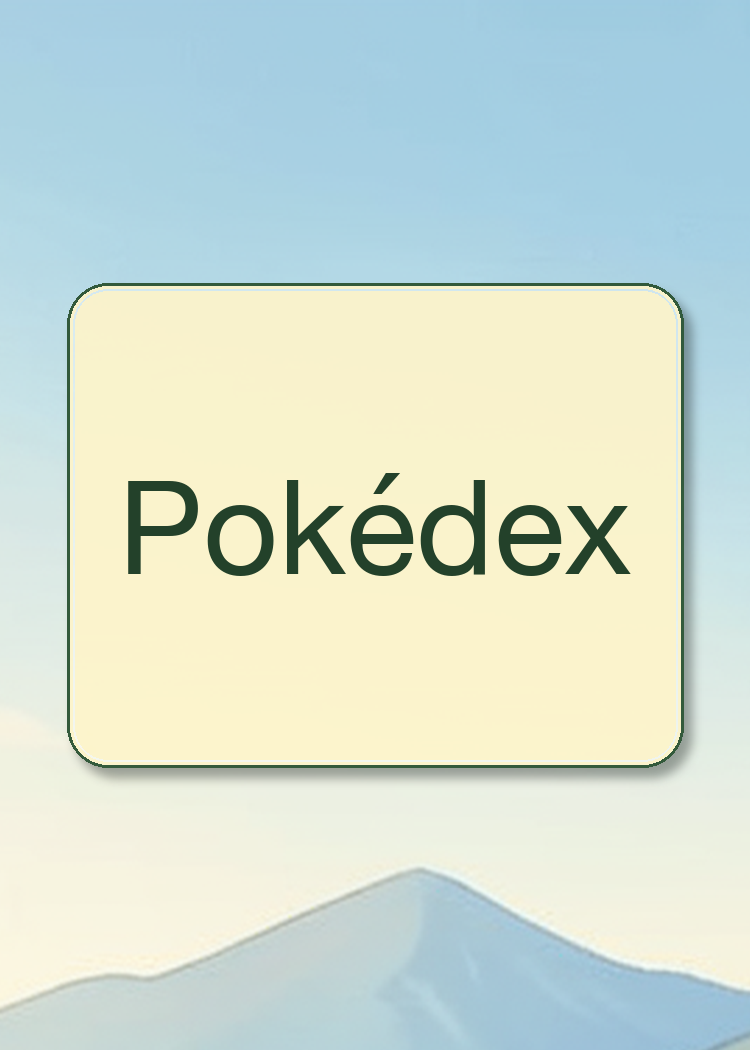
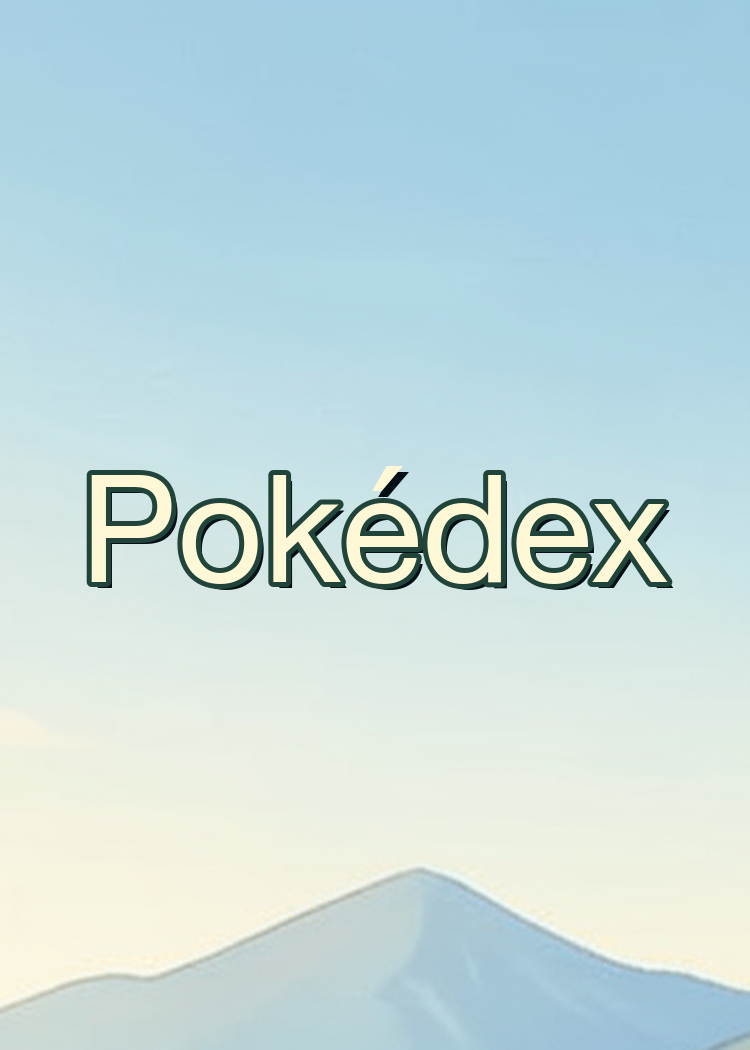
fix(poster): remove plain title panels

diff --git a/scripts/poster_assets/finalize_comfyui_poster.py b/scripts/poster_assets/finalize_comfyui_poster.py
@@ -400,48 +400,35 @@ def draw_project_signature(canvas: Image.Image) -> None:
     draw.text((x, y), text, font=font, fill=(246, 239, 207, 215))
 
 
-def draw_title_text_panel(
+def draw_title_text(
     canvas: Image.Image,
     title_cell,
     title: str,
     language: str,
 ) -> tuple[int, int, int, int]:
-    """Draw a localized title fully inside its deterministic panel."""
-    panel_box = title_cell.inset(0.09, 0.27)
-    composite_panel(
-        canvas,
-        panel_box,
-        fill=(253, 244, 202, 238),
-        outline=(44, 84, 52, 245),
-        radius=max(8, round(24 * canvas.width / 1400)),
-    )
-    width = panel_box[2] - panel_box[0]
-    height = panel_box[3] - panel_box[1]
-    pad_x = max(4, round(width * 0.05))
-    pad_y = max(4, round(height * 0.10))
-    text_box = (
-        panel_box[0] + pad_x,
-        panel_box[1] + pad_y,
-        panel_box[2] - pad_x,
-        panel_box[3] - pad_y,
-    )
+    """Draw a localized, outlined title directly on the artwork."""
+    text_box = title_cell.inset(0.05, 0.31)
     font = fitted_font(
         title,
         text_box,
-        preferred_size=max(14, title_cell.height // 8),
-        minimum_size=max(10, title_cell.height // 22),
+        preferred_size=max(14, title_cell.height // 7),
+        minimum_size=max(10, title_cell.height // 24),
         bold=True,
         language=language,
     )
+    stroke_width = max(1, round(font.size / 28))
     draw_text_centered(
         ImageDraw.Draw(canvas, "RGBA"),
         title,
         text_box,
         font,
-        (35, 65, 42, 255),
-        shadow_fill=None,
+        (255, 248, 215, 255),
+        shadow_fill=(5, 16, 22, 145),
+        stroke_width=stroke_width,
+        stroke_fill=(32, 68, 57, 245),
+        shadow_offset=max(2, round(canvas.width / 390)),
     )
-    return panel_box
+    return text_box
 
 
 def draw_inline_logo_title(
@@ -583,7 +570,7 @@ def draw_final_text_cells(canvas, layout, manifest, scope_data, scope_dir: Path,
                 language,
             )
         else:
-            draw_title_text_panel(
+            draw_title_text(
                 canvas,
                 title_cell,
                 readable_overlay_text(header_text),

diff --git a/scripts/tests/test_poster_assets.py b/scripts/tests/test_poster_assets.py
@@ -27,7 +27,7 @@ from scripts.poster_assets.create_comfyui_upscale_workflow import (
 )
 from scripts.poster_assets.finalize_comfyui_poster import (
     draw_inline_logo_title,
-    draw_title_text_panel,
+    draw_title_text,
     finalize,
     fitted_font,
     info_panel_box,
@@ -1360,14 +1360,14 @@ def test_info_panel_shrinks_long_set_names_to_their_row():
     assert total_height <= box[3] - box[1]
 
 
-def test_long_localized_title_stays_inside_its_panel():
-    canvas = Image.new("RGBA", (848, 1168), (0, 0, 0, 0))
+def test_long_localized_title_stays_inside_its_cell_without_panel():
+    canvas = Image.new("RGBA", (848, 1168), (74, 151, 211, 255))
     title_cell = build_page_layout(
         "standard_3x3",
         width_px=canvas.width,
     ).cell(1, 2)
 
-    panel_box = draw_title_text_panel(
+    text_box = draw_title_text(
         canvas,
         title_cell,
         "Mega Pokémon ex",
@@ -1379,14 +1379,18 @@ def test_long_localized_title_stays_inside_its_panel():
         (x, y)
         for y in range(canvas.height)
         for x in range(canvas.width)
-        if pixels[x, y][:3] == (35, 65, 42)
+        if pixels[x, y][:3] == (255, 248, 215)
         and pixels[x, y][3] == 255
     ]
     assert text_points
-    assert min(x for x, _y in text_points) >= panel_box[0]
-    assert max(x for x, _y in text_points) < panel_box[2]
-    assert min(y for _x, y in text_points) >= panel_box[1]
-    assert max(y for _x, y in text_points) < panel_box[3]
+    assert min(x for x, _y in text_points) >= text_box[0]
+    assert max(x for x, _y in text_points) < text_box[2]
+    assert min(y for _x, y in text_points) >= text_box[1]
+    assert max(y for _x, y in text_points) < text_box[3]
+    assert all(
+        pixel[:3] != (253, 244, 202)
+        for pixel in canvas.get_flattened_data()
+    )
 
 
 @pytest.mark.parametrize(

diff --git a/scripts/poster_assets/typography.py b/scripts/poster_assets/typography.py
@@ -135,6 +135,10 @@ def draw_text_centered(
     font: ImageFont.ImageFont,
     fill: tuple[int, int, int, int],
     shadow_fill: tuple[int, int, int, int] | None = (0, 0, 0, 150),
+    *,
+    stroke_width: int = 0,
+    stroke_fill: tuple[int, int, int, int] | None = None,
+    shadow_offset: int = 2,
 ) -> None:
     left, top, right, bottom = box
     lines = wrap_text(text, font, max_width=right - left)
@@ -154,12 +158,19 @@ def draw_text_centered(
         draw_y = y - bounds[1]
         if shadow_fill:
             draw.text(
-                (x + 2, draw_y + 2),
+                (x + shadow_offset, draw_y + shadow_offset),
                 line,
                 font=font,
                 fill=shadow_fill,
             )
-        draw.text((x, draw_y), line, font=font, fill=fill)
+        draw.text(
+            (x, draw_y),
+            line,
+            font=font,
+            fill=fill,
+            stroke_width=stroke_width,
+            stroke_fill=stroke_fill,
+        )
         y += line_height + round(font.size * 0.28)
 
 

diff --git a/scripts/poster_assets/provenance.py b/scripts/poster_assets/provenance.py
@@ -1232,6 +1232,7 @@ def build_overlay_fingerprint(
             else:
                 title = {
                     "kind": "text",
+                    "renderer": "direct_outlined_v1",
                     "value": readable_overlay_text(header_text),
                 }
         language_components[language] = {

diff --git a/docs/POSTER_ARTWORK_CONCEPT.md b/docs/POSTER_ARTWORK_CONCEPT.md
@@ -163,8 +163,8 @@ resolves localized set name, card count, release label/date, and project mark;
 `section_summary` resolves localized section title, subtitle or region,
 Pokémon count, description/range, and project mark. The finalizer chooses the top
 renderer from the resolved value: a complete set logo wins, one supported
-trailing logo token becomes an inline logo group, and everything else uses the
-text panel. If that textual top value equals the first information row after
+trailing logo token becomes an inline logo group, and everything else uses
+outlined text directly on the artwork. If that textual top value equals the first information row after
 token normalization, the duplicate row is removed automatically. Thus a
 Pokédex poster keeps `Generation I` below the collection title `Pokédex`, an
 Ex-generation poster does not repeat its section title, and a set with a full

diff --git a/docs/POSTER_ARTWORK_EXPERIMENT_LOG.md b/docs/POSTER_ARTWORK_EXPERIMENT_LOG.md
@@ -1362,3 +1362,10 @@ collection name, while every Ex-generation section uses the compact three-row
 panel without a per-scope switch. The overlapping ExGen3 description prefixes
 were shortened to date range plus distinguishing variant detail; no generated
 artwork or PDF routing changed.
+
+The remaining plain-text fallback still used a pale generic panel, most visibly
+for the `Pokédex` collection title. That panel is now removed from the common
+fallback renderer: plain titles use the same bounded outlined-text treatment as
+the textual part of inline-logo titles. The fingerprint records
+`direct_outlined_v1`, so only affected text-title overlays become stale; no
+scope-specific display flag or artwork regeneration is required.

diff --git a/docs/POSTER_ARTWORK_STATUS.md b/docs/POSTER_ARTWORK_STATUS.md
@@ -78,7 +78,8 @@ not invented and are not PDF targets.
 Scope JSON is the only semantic copy source for both covers and posters.
 Poster manifests no longer copy titles or select title/deduplication styles.
 The overlay infers complete logo, inline token logo, or text rendering and
-removes an identical title row automatically. Cover count labels use the scope
+draws plain text directly without a title panel. It removes an identical title
+row automatically. Cover count labels use the scope
 type, so TCG-set totals are cards while Pokédex and variant totals are Pokémon.
 
 The poster now contains all semantic cover information: collection/set title,
